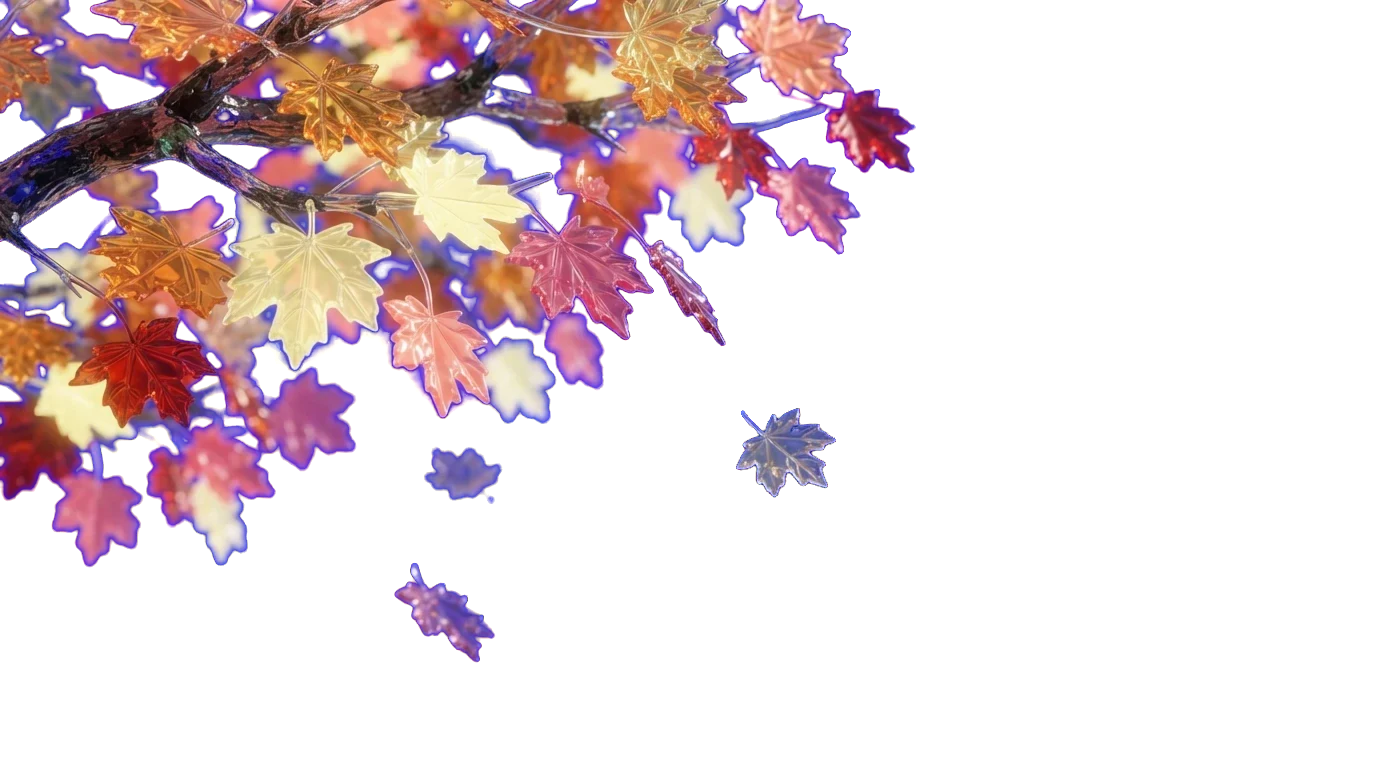
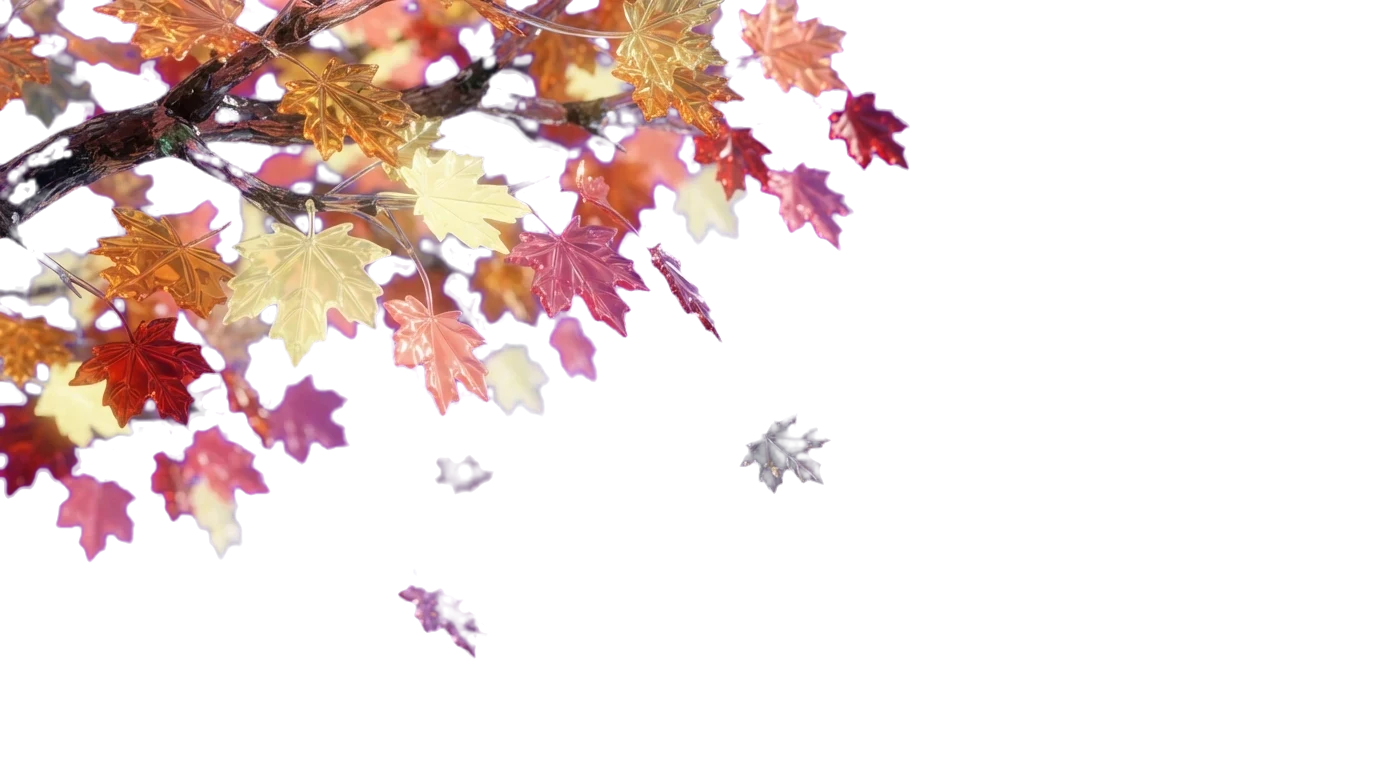
Clean matte (no blue fringes on translucent season art), darker backdrop and denser glass for readability

diff --git a/index.html b/index.html
@@ -83,17 +83,20 @@ img{max-width:100%}
 @keyframes shim{to{transform:scaleX(.82)}}
 .fb-ripples{position:absolute;inset:0;opacity:.35;background:repeating-linear-gradient(180deg,transparent 0 13px,rgba(255,200,200,.35) 13px 14px);animation:rip 9s linear infinite}
 @keyframes rip{to{background-position:0 28px}}
-.veil{position:fixed;inset:0;z-index:-2;pointer-events:none;background:linear-gradient(180deg,rgba(5,31,57,.0),rgba(5,31,57,.55));opacity:var(--veil,0)}
+.veil{position:fixed;inset:0;z-index:-1;pointer-events:none;background:linear-gradient(180deg,#051f39,#0a1a44 55%,#051f39);opacity:var(--veil,.3)}
 .sprites{position:fixed;inset:0;z-index:-1;pointer-events:none;overflow:hidden}
 .gs{position:absolute;mix-blend-mode:screen;will-change:transform;animation:fl 9s ease-in-out infinite alternate}
 .gs img{display:block;width:100%;height:auto;filter:drop-shadow(0 20px 30px rgba(5,10,40,.5))}
 @keyframes fl{to{margin-top:-16px}}
-.fx{position:fixed;inset:0;z-index:-1;pointer-events:none;background:radial-gradient(120% 90% at 50% 50%,transparent 55%,rgba(5,31,57,.55))}
+.fx{position:fixed;inset:0;z-index:-1;pointer-events:none;background:radial-gradient(120% 90% at 50% 50%,transparent 45%,rgba(5,31,57,.7))}
+h2,.k,.lead,footer,.count{text-shadow:0 2px 18px rgba(5,10,40,.9),0 0 4px rgba(5,10,40,.6)}
+.hcard{background:linear-gradient(150deg,rgba(255,164,164,.1),rgba(136,47,143,.16) 36%,rgba(5,31,57,.86))}
+.sub,.val p,.feat p,.panel,.contact p{text-shadow:none}
 
 /* ================= glass ================= */
 .glass{position:relative;border-radius:22px;
-  background:linear-gradient(150deg,rgba(255,164,164,.17),rgba(136,47,143,.14) 36%,rgba(5,31,57,.6));
-  backdrop-filter:blur(18px) saturate(1.55);-webkit-backdrop-filter:blur(18px) saturate(1.55);
+  background:linear-gradient(150deg,rgba(255,164,164,.17),rgba(136,47,143,.14) 36%,rgba(5,31,57,.8));
+  backdrop-filter:blur(22px) saturate(1.35) brightness(.72);-webkit-backdrop-filter:blur(22px) saturate(1.35) brightness(.72);
   box-shadow:inset 0 1px 0 rgba(255,241,238,.55),inset 0 -16px 30px rgba(5,31,57,.32),0 32px 60px -26px rgba(5,10,40,.85)}
 .glass:before{content:"";position:absolute;inset:0;border-radius:inherit;padding:1px;pointer-events:none;
   background:linear-gradient(145deg,rgba(255,241,238,.75),rgba(255,164,164,.14) 32%,rgba(197,58,157,.14) 68%,rgba(255,164,164,.5));
@@ -465,7 +468,7 @@ function apply(){
   });
   document.querySelectorAll(".br").forEach(e=>{const d=+e.dataset.d;e.style.transform=`translate3d(${-px*d*90}px,${-py*d*60-sy*d*.12}px,0)${e.classList.contains("r")?" scaleX(-1)":""}`});
   document.querySelectorAll(".gs").forEach(e=>{const d=+e.dataset.d;e.style.transform=`translate3d(${-px*d*140}px,${-py*d*100-sy*d*.5}px,0)`});
-  root.style.setProperty("--veil",Math.min(.5,sy/(vh*2.2)));
+  root.style.setProperty("--veil",.3+.34*Math.min(1,sy/(vh*1.1)));
 }
 
 /* ---- falling nature: petals, fireflies, leaves, snow (canvas, follows the season weights) ---- */

diff --git a/tools/import_gemini.py b/tools/import_gemini.py
@@ -59,9 +59,13 @@ def key_green(im):
     return out
 
 
-def key_auto(im, crop=None):
-    """Key out a flat background of any colour (blue for the nature assets).
-    The key colour is the median of the frame border; edge pixels are un-mixed so no fringe stays.
+def key_auto(im, crop=None, strict=False):
+    """Key out a flat background of any colour (blue for the nature assets), without a key-coloured halo.
+    1. key colour = median of the frame border; alpha from the colour distance;
+    2. colours are un-mixed from the key and the key-coloured spill is removed on semi-transparent pixels;
+    3. the matte is eroded a little and softened, so no bright rim of the old background survives;
+    4. fully transparent pixels get the colour of the nearest solid pixel (no blue bleeding into the
+       edge when the browser scales or the WebP encoder compresses the image).
     crop: None = keep the frame, 'v' = crop empty rows above/below the content."""
     a = np.asarray(im).astype(np.float32)
     b = 6
@@ -69,9 +73,32 @@ def key_auto(im, crop=None):
                              a[:, :b].reshape(-1, 3), a[:, -b:].reshape(-1, 3)])
     key = np.median(border, axis=0)
     d = np.linalg.norm(a - key, axis=2)
-    alpha = np.clip((d - 40) / 55, 0, 1)
-    safe = np.maximum(alpha, 1e-3)[..., None]
-    rgb = np.clip((a - (1 - alpha)[..., None] * key) / safe, 0, 255)
+    a0 = np.clip((d - 50) / 70, 0, 1)
+    a0 = a0 * a0 * (3 - 2 * a0)                               # smoothstep
+    safe = np.maximum(a0, 1e-3)[..., None]
+    rgb = np.clip((a - (1 - a0)[..., None] * key) / safe, 0, 255)
+    # key-colour excess (blue over red/green for a blue key): blue-tinted pixels are the old background
+    # shining through blurred edges. strict = foliage and blossoms (blue is never a real colour there);
+    # otherwise ice and violet shadows keep a limited blue cast.
+    kc = int(np.argmax(key))
+    others = [i for i in range(3) if i != kc]
+    ex = rgb[..., kc] - np.maximum(rgb[..., others[0]], rgb[..., others[1]])
+    lo, span, lim = (12, 70, 8) if strict else (70, 60, 70)
+    a0 = a0 * np.clip(1 - (ex - lo) / span, 0, 1)
+    rgb[..., kc] = np.minimum(rgb[..., kc], np.maximum(rgb[..., others[0]], rgb[..., others[1]]) + lim)
+    # edge colour: semi-transparent pixels take the colour of the nearest solid pixel (smoothed), so the
+    # key colour cannot survive as a halo, whatever the (unknowable) real colour behind the blur was
+    solid = a0 > 0.92
+    idx = ndimage.distance_transform_edt(~solid, return_distances=False, return_indices=True)
+    filled = rgb[idx[0], idx[1]]
+    for c in range(3):
+        filled[..., c] = ndimage.gaussian_filter(filled[..., c], 1.5)
+    wr = np.clip((1 - a0) * 1.8, 0, 1)[..., None] * (~solid)[..., None]
+    rgb = np.clip(rgb * (1 - wr) + filled * wr, 0, 255)
+    # matte: erode, soften, and cut the faintest fringe
+    alpha = ndimage.minimum_filter(a0, size=3)
+    alpha = ndimage.gaussian_filter(alpha, 0.7)
+    alpha = np.clip((alpha - 0.12) / 0.88, 0, 1)
     out = Image.fromarray(np.dstack([rgb, alpha * 255]).astype(np.uint8), "RGBA")
     if crop == "v":
         bbox = out.getchannel("A").point(lambda v: 255 if v > 24 else 0).getbbox()
@@ -127,9 +154,9 @@ def main():
     for s in ("spring", "summer", "autumn", "winter"):
         entry = {}
         if (im := load(f"shore-{s}")):
-            entry["shore"] = save(key_auto(shrink(im), "v"), f"shore-{s}", True)
+            entry["shore"] = save(key_auto(shrink(im), "v", strict=s != "winter"), f"shore-{s}", True)
         if (im := load(f"branch-{s}")):
-            entry["branch"] = save(key_auto(shrink(im)), f"branch-{s}", True)
+            entry["branch"] = save(key_auto(shrink(im), strict=s != "winter"), f"branch-{s}", True)
         if entry:
             manifest["seasons"][s] = entry
     (ROOT / "scene.json").write_text(json.dumps(manifest, indent=1), encoding="utf-8")
